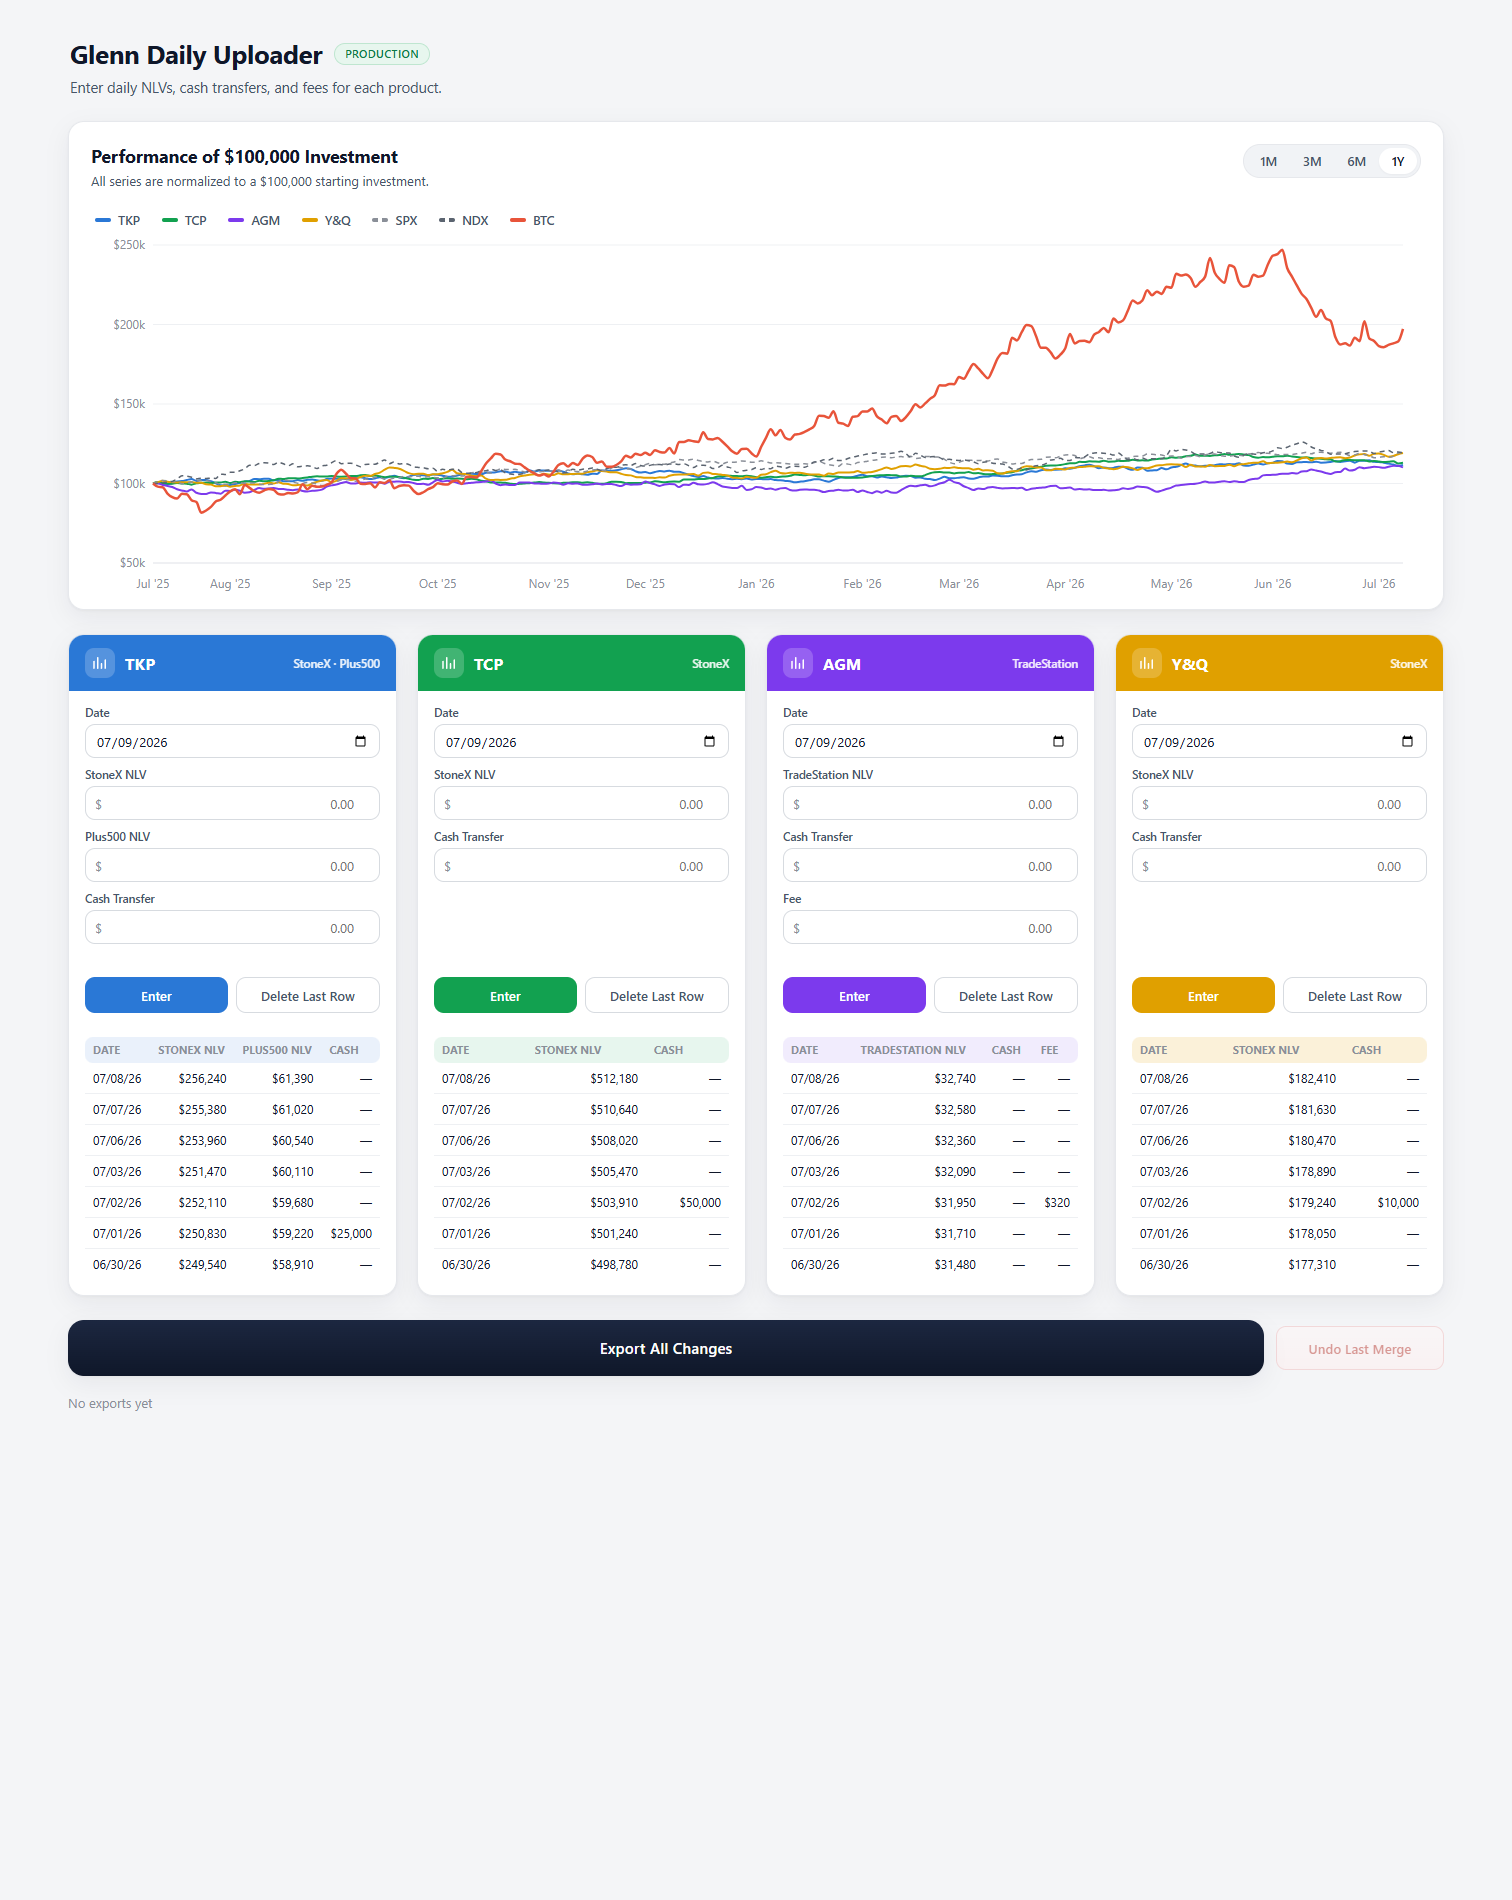
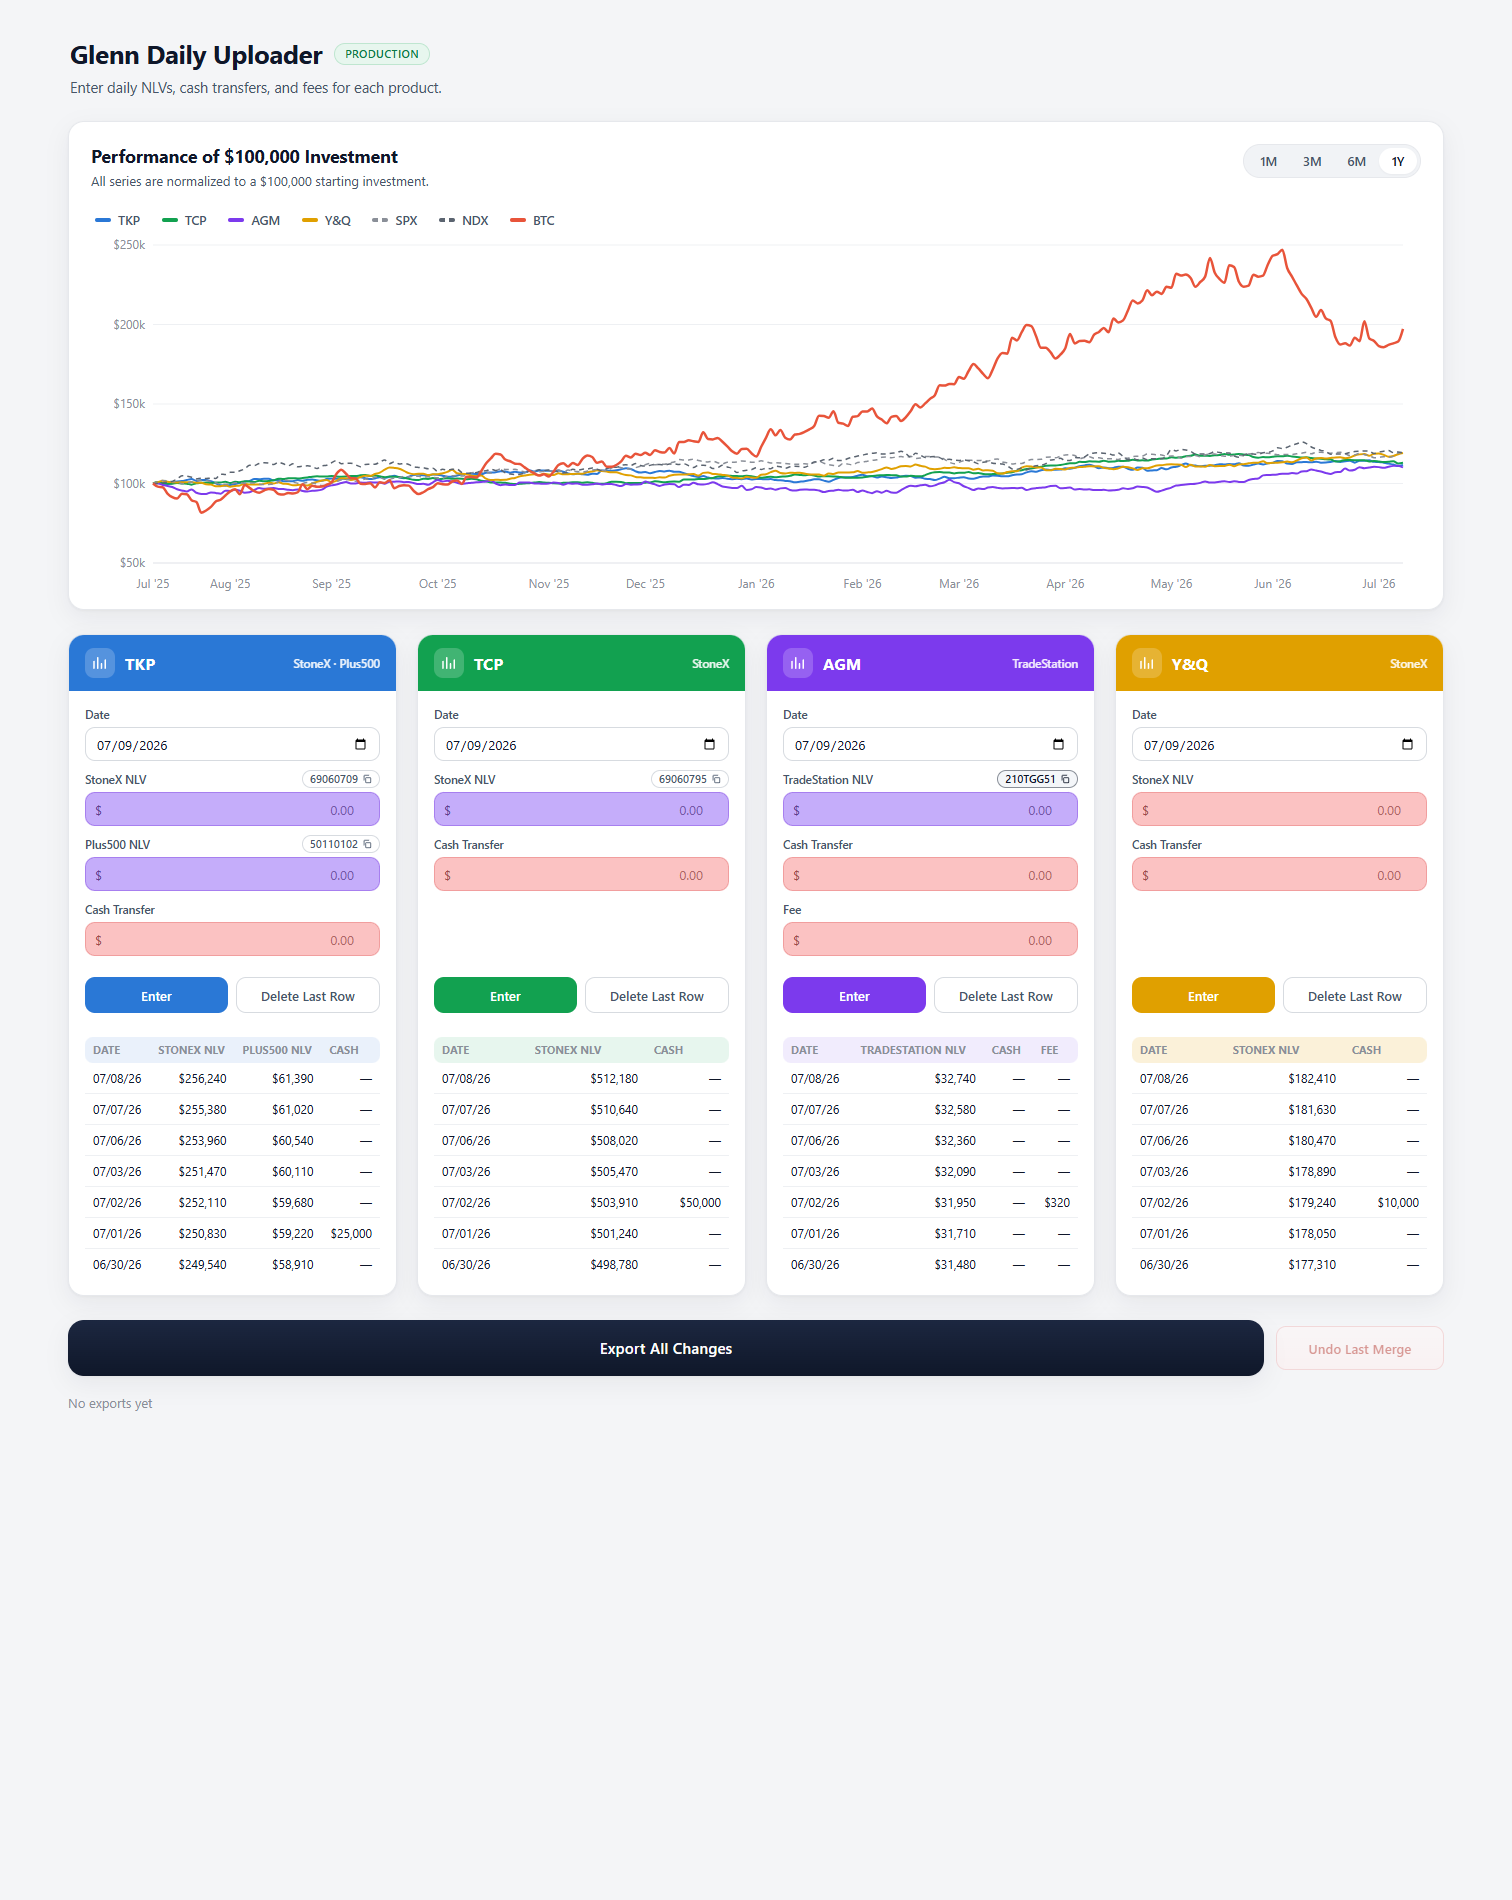
feat(frontend): tinted currency inputs + account-number copy chips
Visual/input polish pass (frontend-only, no behavior wired to any backend):

- Currency input tints, config-driven via a new ProductField.tint:
  * bright translucent purple rgba(139,92,246,.5) for the NLV inputs on
    TKP (StoneX + Plus500), TCP (StoneX) and AGM (TradeStation);
  * light translucent pink rgba(248,133,133,.5) for every other non-date
    input (all Cash Transfers, AGM Fee, and both Y&Q fields);
  * Date inputs stay white in all cards.
  Tinted variants also darken the $ prefix and placeholder for readability.

- Account-number copy chips, config-driven via ProductField.accountNumber:
  * TKP StoneX NLV [69060709], TKP Plus500 NLV [50110102],
    TCP StoneX NLV [69060795], AGM TradeStation NLV [210TGG51];
  * subtle pill beside the field label; click copies ONLY the account
    number (navigator.clipboard with an execCommand fallback; graceful
    "Copy failed" state), brief green "Copied" feedback, then reverts;
  * chip click is isolated from the surrounding label (no input focus);
  * no chips on Cash Transfer / Fee / Date / any Y&Q field.

Verified headlessly: computed backgrounds per field per card (dates white),
exactly 4 chips with correct accounts, clipboard contents match each account
verbatim, Copied feedback + revert, and button-row alignment unaffected.
Export/Undo/Processed wording untouched per review guidance.

Changed region(s): [[0.2798, 0.3726, 0.7149, 0.5279], [0.0311, 0.3726, 0.2487, 0.5279], [0.746, 0.3726, 0.9636, 0.4968]]

diff --git a/uploader/frontend/src/components/ProductCard.tsx b/uploader/frontend/src/components/ProductCard.tsx
@@ -1,4 +1,4 @@
-import { useState, type CSSProperties, type FormEvent } from 'react'
+import { useRef, useState, type CSSProperties, type FormEvent } from 'react'
 import { MAX_PRODUCT_FIELD_COUNT } from '../config/products'
 import type { ProductConfig, ProductId, ProductRow } from '../types'
 import { makeRowId } from '../data/rows'
@@ -27,6 +27,99 @@ function initialForm(config: ProductConfig): FormState {
     state[field.key] = field.type === 'date' ? todayISO() : ''
   }
   return state
+}
+
+/** Legacy clipboard fallback for contexts without navigator.clipboard. */
+function legacyCopy(text: string): void {
+  const area = document.createElement('textarea')
+  area.value = text
+  area.setAttribute('readonly', '')
+  area.style.position = 'fixed'
+  area.style.opacity = '0'
+  document.body.appendChild(area)
+  area.select()
+  const ok = document.execCommand('copy')
+  document.body.removeChild(area)
+  if (!ok) throw new Error('copy rejected')
+}
+
+/**
+ * Subtle chip beside a field label showing a broker account number.
+ * Click copies ONLY the account number; brief "Copied" / "Copy failed"
+ * feedback replaces the chip text, then it reverts.
+ */
+function AccountChip({ account }: { account: string }) {
+  const [state, setState] = useState<'idle' | 'copied' | 'error'>('idle')
+  const timer = useRef<number | undefined>(undefined)
+
+  const handleCopy = async (event: React.MouseEvent<HTMLButtonElement>) => {
+    // The chip sits inside the field <label>; don't focus/activate the input.
+    event.preventDefault()
+    event.stopPropagation()
+    try {
+      if (navigator.clipboard?.writeText) {
+        await navigator.clipboard.writeText(account)
+      } else {
+        legacyCopy(account)
+      }
+      setState('copied')
+    } catch {
+      setState('error')
+    }
+    window.clearTimeout(timer.current)
+    timer.current = window.setTimeout(() => setState('idle'), 1600)
+  }
+
+  return (
+    <button
+      type="button"
+      className={`${styles.accountChip} ${
+        state === 'copied' ? styles.accountChipCopied : ''
+      } ${state === 'error' ? styles.accountChipError : ''}`}
+      onClick={handleCopy}
+      title={`Copy account number ${account}`}
+      aria-label={`Copy account number ${account} to clipboard`}
+    >
+      {state === 'copied' ? (
+        <>
+          <svg
+            width="10"
+            height="10"
+            viewBox="0 0 24 24"
+            fill="none"
+            stroke="currentColor"
+            strokeWidth="3"
+            strokeLinecap="round"
+            strokeLinejoin="round"
+            aria-hidden="true"
+          >
+            <path d="M20 6 9 17l-5-5" />
+          </svg>
+          Copied
+        </>
+      ) : state === 'error' ? (
+        'Copy failed'
+      ) : (
+        <>
+          {account}
+          <svg
+            width="10"
+            height="10"
+            viewBox="0 0 24 24"
+            fill="none"
+            stroke="currentColor"
+            strokeWidth="2"
+            strokeLinecap="round"
+            strokeLinejoin="round"
+            aria-hidden="true"
+          >
+            <rect x="9" y="9" width="12" height="12" rx="2" />
+            <path d="M5 15V5a2 2 0 0 1 2-2h10" />
+          </svg>
+        </>
+      )}
+    </button>
+  )
 }
 
 /** Small financial glyph shown in the colored header. */
@@ -101,7 +194,10 @@ export function ProductCard({ config, rows, onAddRow, onDeleteLast }: Props) {
         >
           {config.fields.map((field) => (
             <label key={field.key} className={styles.field}>
-              <span className={styles.fieldLabel}>{field.label}</span>
+              <span className={styles.fieldLabelRow}>
+                <span className={styles.fieldLabel}>{field.label}</span>
+                {field.accountNumber && <AccountChip account={field.accountNumber} />}
+              </span>
               {field.type === 'date' ? (
                 <input
                   type="date"
@@ -111,7 +207,11 @@ export function ProductCard({ config, rows, onAddRow, onDeleteLast }: Props) {
                   onChange={(e) => update(field.key, e.target.value)}
                 />
               ) : (
-                <span className={styles.currencyWrap}>
+                <span
+                  className={`${styles.currencyWrap} ${
+                    field.tint === 'purple' ? styles.wrapPurple : ''
+                  } ${field.tint === 'pink' ? styles.wrapPink : ''}`}
+                >
                   <span className={styles.currencyPrefix}>$</span>
                   <input
                     type="number"

diff --git a/uploader/frontend/src/config/products.ts b/uploader/frontend/src/config/products.ts
@@ -8,6 +8,10 @@ export const MAX_PRODUCT_FIELD_COUNT = 4
 //   TKP  — the only product with BOTH StoneX NLV and Plus500 NLV.
 //   AGM  — the only product with a Fee.
 //   TCP, Y&Q — StoneX NLV + Cash Transfer only.
+// Input tints: NLV fields on TKP/TCP/AGM = translucent purple; every other
+// non-date field (cash transfers, AGM fee, all Y&Q currency fields) = light
+// translucent pink. Date inputs stay white. `accountNumber` renders a
+// copy-to-clipboard chip beside the label (only the four broker NLV accounts).
 export const PRODUCTS: ProductConfig[] = [
   {
     id: 'TKP',
@@ -17,9 +21,9 @@ export const PRODUCTS: ProductConfig[] = [
     colorSoft: '#eaf1fb',
     fields: [
       { key: 'date', label: 'Date', type: 'date' },
-      { key: 'stonexNlv', label: 'StoneX NLV', type: 'currency', placeholder: '0.00' },
-      { key: 'plus500Nlv', label: 'Plus500 NLV', type: 'currency', placeholder: '0.00' },
-      { key: 'cash', label: 'Cash Transfer', type: 'currency', placeholder: '0.00' },
+      { key: 'stonexNlv', label: 'StoneX NLV', type: 'currency', placeholder: '0.00', tint: 'purple', accountNumber: '69060709' },
+      { key: 'plus500Nlv', label: 'Plus500 NLV', type: 'currency', placeholder: '0.00', tint: 'purple', accountNumber: '50110102' },
+      { key: 'cash', label: 'Cash Transfer', type: 'currency', placeholder: '0.00', tint: 'pink' },
     ],
     columns: [
       { key: 'date', label: 'Date', format: 'date' },
@@ -36,8 +40,8 @@ export const PRODUCTS: ProductConfig[] = [
     colorSoft: '#e7f6ee',
     fields: [
       { key: 'date', label: 'Date', type: 'date' },
-      { key: 'stonexNlv', label: 'StoneX NLV', type: 'currency', placeholder: '0.00' },
-      { key: 'cash', label: 'Cash Transfer', type: 'currency', placeholder: '0.00' },
+      { key: 'stonexNlv', label: 'StoneX NLV', type: 'currency', placeholder: '0.00', tint: 'purple', accountNumber: '69060795' },
+      { key: 'cash', label: 'Cash Transfer', type: 'currency', placeholder: '0.00', tint: 'pink' },
     ],
     columns: [
       { key: 'date', label: 'Date', format: 'date' },
@@ -53,9 +57,9 @@ export const PRODUCTS: ProductConfig[] = [
     colorSoft: '#f1ecfd',
     fields: [
       { key: 'date', label: 'Date', type: 'date' },
-      { key: 'tradestationNlv', label: 'TradeStation NLV', type: 'currency', placeholder: '0.00' },
-      { key: 'cash', label: 'Cash Transfer', type: 'currency', placeholder: '0.00' },
-      { key: 'fee', label: 'Fee', type: 'currency', placeholder: '0.00' },
+      { key: 'tradestationNlv', label: 'TradeStation NLV', type: 'currency', placeholder: '0.00', tint: 'purple', accountNumber: '210TGG51' },
+      { key: 'cash', label: 'Cash Transfer', type: 'currency', placeholder: '0.00', tint: 'pink' },
+      { key: 'fee', label: 'Fee', type: 'currency', placeholder: '0.00', tint: 'pink' },
     ],
     columns: [
       { key: 'date', label: 'Date', format: 'date' },
@@ -72,8 +76,8 @@ export const PRODUCTS: ProductConfig[] = [
     colorSoft: '#fbf1d9',
     fields: [
       { key: 'date', label: 'Date', type: 'date' },
-      { key: 'stonexNlv', label: 'StoneX NLV', type: 'currency', placeholder: '0.00' },
-      { key: 'cash', label: 'Cash Transfer', type: 'currency', placeholder: '0.00' },
+      { key: 'stonexNlv', label: 'StoneX NLV', type: 'currency', placeholder: '0.00', tint: 'pink' },
+      { key: 'cash', label: 'Cash Transfer', type: 'currency', placeholder: '0.00', tint: 'pink' },
     ],
     columns: [
       { key: 'date', label: 'Date', format: 'date' },

diff --git a/uploader/frontend/src/components/ProductCard.module.css b/uploader/frontend/src/components/ProductCard.module.css
@@ -70,10 +70,56 @@
   gap: 4px;
 }
 
+.fieldLabelRow {
+  display: flex;
+  align-items: center;
+  justify-content: space-between;
+  gap: 6px;
+  min-height: 18px;
+}
+
 .fieldLabel {
   font-size: 11.5px;
   font-weight: 600;
   color: var(--ink-secondary);
+}
+
+/* Copy-to-clipboard account-number chip beside the label. */
+.accountChip {
+  display: inline-flex;
+  align-items: center;
+  gap: 4px;
+  height: 18px;
+  padding: 0 7px;
+  border: 1px solid var(--border-strong);
+  border-radius: var(--radius-pill);
+  background: #fff;
+  color: var(--ink-secondary);
+  font-size: 10.5px;
+  font-weight: 600;
+  font-variant-numeric: tabular-nums;
+  letter-spacing: 0.2px;
+  line-height: 1;
+  cursor: pointer;
+  transition: background 0.12s ease, border-color 0.12s ease, color 0.12s ease;
+}
+
+.accountChip:hover {
+  background: #f4f6f9;
+  border-color: var(--ink-muted);
+  color: var(--ink);
+}
+
+.accountChipCopied {
+  background: #ecfdf3;
+  border-color: #a7e3c2;
+  color: #127a42;
+}
+
+.accountChipError {
+  background: #fef2f2;
+  border-color: #f4bcbc;
+  color: #b42318;
 }
 
 .input {
@@ -112,6 +158,34 @@
   padding-left: 20px;
   text-align: right;
   font-variant-numeric: tabular-nums;
+}
+
+/* Input tints (date inputs always stay white).
+   Purple = NLV fields on TKP/TCP/AGM; pink = every other non-date field. */
+.wrapPurple .currencyInput {
+  background: rgba(139, 92, 246, 0.5);
+  border-color: rgba(109, 40, 217, 0.35);
+}
+
+.wrapPurple .currencyInput::placeholder {
+  color: rgba(46, 16, 101, 0.55);
+}
+
+.wrapPurple .currencyPrefix {
+  color: rgba(46, 16, 101, 0.7);
+}
+
+.wrapPink .currencyInput {
+  background: rgba(248, 133, 133, 0.5);
+  border-color: rgba(220, 90, 90, 0.35);
+}
+
+.wrapPink .currencyInput::placeholder {
+  color: rgba(112, 26, 26, 0.55);
+}
+
+.wrapPink .currencyPrefix {
+  color: rgba(112, 26, 26, 0.7);
 }
 
 /* Buttons */

diff --git a/uploader/frontend/src/types.ts b/uploader/frontend/src/types.ts
@@ -5,6 +5,13 @@ export type ProductId = 'TKP' | 'TCP' | 'AGM' | 'YQ'
 /** Kind of input rendered in a product's entry form. */
 export type FieldType = 'date' | 'currency'
 
+/**
+ * Background tint for currency inputs (date inputs always stay white):
+ * 'purple' = bright translucent purple (NLV fields on TKP/TCP/AGM),
+ * 'pink'   = light translucent red/pink (all other non-date fields, incl. Y&Q).
+ */
+export type CurrencyInputTint = 'purple' | 'pink'
+
 export interface ProductField {
   /** Row key this input writes to. */
   key: string
@@ -12,6 +19,10 @@ export interface ProductField {
   label: string
   type: FieldType
   placeholder?: string
+  /** Background tint for currency inputs. Omit for date fields (white). */
+  tint?: CurrencyInputTint
+  /** Broker account number shown as a copy-to-clipboard chip next to the label. */
+  accountNumber?: string
 }
 
 /** How a table cell is rendered. */
